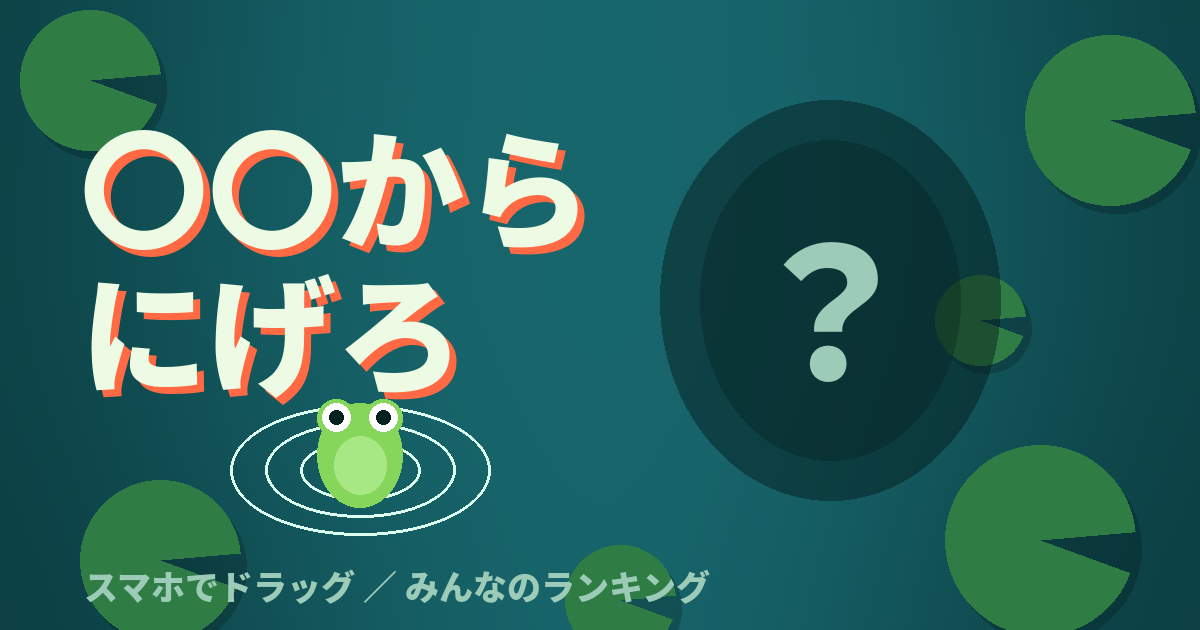
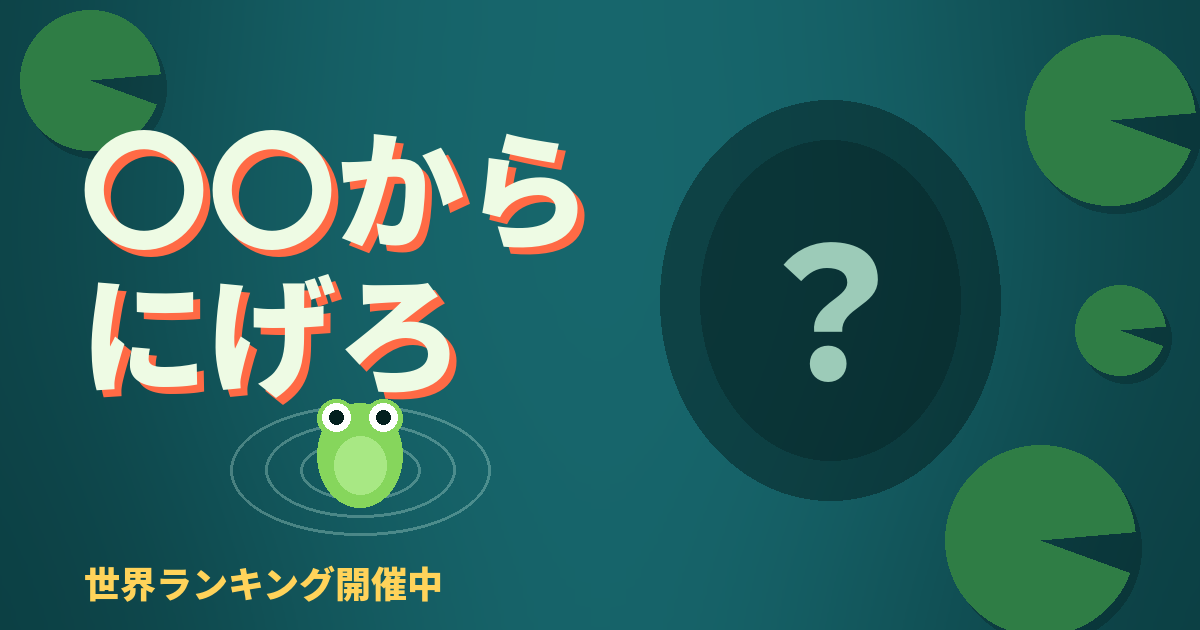
ランキングを「世界ランキング」に
大会の公式記録風の見出し、上位3人の称号、世界新記録の表示を追加。
シェア画像の文言も合わせた。

Claude-Session: https://claude.ai/code/session_01VmvYixVGhw6jZf85J7cwb9

diff --git a/public/index.html b/public/index.html
@@ -4,7 +4,7 @@
 <meta charset="utf-8">
 <meta name="viewport" content="width=device-width, initial-scale=1, viewport-fit=cover">
 <title>〇〇からにげろ</title>
-<meta name="description" content="池のカエルを指でドラッグして、追いかけてくる〇〇から逃げるスマホゲーム。ハエを食べてボーナス、ギリギリでかわして加点。名前を登録してみんなのランキングに挑戦しよう。">
+<meta name="description" content="池のカエルを指でドラッグして、追いかけてくる〇〇から逃げるスマホゲーム。ハエを食べてボーナス、ギリギリでかわして加点。名前を登録して世界ランキングに挑戦しよう。">
 <meta name="theme-color" content="#082f33">
 <link rel="icon" href="/favicon.png" type="image/png">
 <link rel="apple-touch-icon" href="/apple-touch-icon.png">
@@ -84,9 +84,17 @@ body{background:#03191b;touch-action:none;color:var(--paper);font-family:var(--b
 .link:focus-visible,.del:focus-visible{outline:2px solid var(--frog);outline-offset:2px}
 #over{gap:11px}
 #rank{gap:12px}
-.rhead{display:flex;justify-content:space-between;align-items:baseline;gap:8px}
-.rhead .title{font-size:clamp(30px,9cqw,40px)}
-.src{font-size:12px;color:var(--muted)}
+.rhead{display:grid;justify-items:center;gap:6px}
+.eyebrow{font-family:var(--display);font-size:12px;letter-spacing:.14em;color:#ffd35a;
+  padding:3px 10px;border-top:1px solid rgba(255,211,90,.45);border-bottom:1px solid rgba(255,211,90,.45)}
+.rhead .title{font-size:clamp(32px,10cqw,46px);text-shadow:3px 3px 0 var(--alert),0 0 24px rgba(255,211,90,.35)}
+.src{font-size:12px;color:var(--muted);letter-spacing:.04em}
+.rank .crown{font-size:10px;font-weight:800;color:var(--ink);border-radius:4px;padding:1px 5px;margin-left:6px;vertical-align:2px;background:#ffd35a}
+.rank li:nth-child(2) .crown{background:#dfe9e6}
+.rank li:nth-child(3) .crown{background:#e8a066}
+.rank li:nth-child(1){background:rgba(255,211,90,.12);box-shadow:inset 0 0 0 1px rgba(255,211,90,.45)}
+.rank li:nth-child(1) .nm,.rank li:nth-child(1) .sc{color:#ffe7a3}
+.note .wr{color:#ffd35a;font-family:var(--display);font-size:15px;letter-spacing:.06em}
 .rank{list-style:none;margin:0;padding:0 2px 0 0;display:grid;gap:4px;text-align:left;
   max-height:min(56vh,440px);overflow-y:auto;-webkit-overflow-scrolling:touch;font-variant-numeric:tabular-nums}
 .rank li{display:grid;grid-template-columns:2.1em minmax(0,1fr) auto auto;align-items:center;gap:10px;
@@ -125,7 +133,7 @@ body{background:#03191b;touch-action:none;color:var(--paper);font-family:var(--b
   <div class="stats" id="menuBest"></div>
   <div class="row">
     <button class="btn" id="startBtn" type="button">にげる</button>
-    <button class="btn ghost" id="menuRankBtn" type="button">ランキング</button>
+    <button class="btn ghost" id="menuRankBtn" type="button">世界ランキング</button>
   </div>
 </div>
 
@@ -135,13 +143,13 @@ body{background:#03191b;touch-action:none;color:var(--paper);font-family:var(--b
   <div class="big" id="overScore">0</div>
   <div class="stats" id="overStats"></div>
   <form class="form" id="nameForm" autocomplete="off">
-    <input class="input" id="nameInput" type="text" maxlength="24" placeholder="名前（12文字まで）" enterkeyhint="done" aria-label="ランキングに載せる名前">
+    <input class="input" id="nameInput" type="text" maxlength="24" placeholder="名前（12文字まで）" enterkeyhint="done" aria-label="世界ランキングに載せる名前">
     <button class="btn sm" id="submitBtn" type="submit">登録</button>
   </form>
   <p class="note" id="submitNote"></p>
   <div class="row">
     <button class="btn" id="retryBtn" type="button">もう一回</button>
-    <button class="btn ghost" id="overRankBtn" type="button">ランキング</button>
+    <button class="btn ghost" id="overRankBtn" type="button">世界ランキング</button>
   </div>
   <div class="links">
     <a class="link" id="shareX" href="https://x.com/" target="_blank" rel="noopener">Xでポスト</a>
@@ -151,7 +159,8 @@ body{background:#03191b;touch-action:none;color:var(--paper);font-family:var(--b
 
 <div class="panel" id="rank" hidden>
   <div class="rhead">
-    <h2 class="title">ランキング</h2>
+    <span class="eyebrow">第1回 〇〇逃走世界大会 公式記録</span>
+    <h2 class="title">世界ランキング</h2>
     <span class="src" id="rankSrc"></span>
   </div>
   <ol class="rank" id="rankList"></ol>
@@ -319,7 +328,10 @@ function refreshOverRank(){
   if(rankStatus==='loading'){note.textContent='ランキングを読み込み中…';return}
   const mine=online?rows().find(r=>r.me):null;
   if(mine&&mine.score>=lastRun.score){note.innerHTML=`あなたの登録ベストは <b>${mine.score}点</b>。登録すると名前だけ変わります。`;return}
-  note.innerHTML=`登録すると${online?'みんなの':'この端末の'}ランキングで <b>${placeFor(lastRun.score)}位</b>`;
+  const pl=placeFor(lastRun.score);
+  note.innerHTML=online
+    ?(pl===1?'登録すると <span class="wr">世界新記録</span>（世界1位）':`登録すると <b>世界${pl}位</b>`)
+    :`登録するとこの端末のランキングで <b>${pl}位</b>`;
 }
 $('nameForm').addEventListener('submit',async e=>{
   e.preventDefault();
@@ -339,8 +351,8 @@ $('nameForm').addEventListener('submit',async e=>{
         if(Array.isArray(r.body.scores))rankRows=r.body.scores;
         submitted=true;btn.textContent='済';
         note.innerHTML=r.body.improved
-          ?`登録した！ みんなのランキングで <b>${r.body.place}位</b>`
-          :`名前を「${esc(name)}」に更新。ベスト <b>${r.body.best}点</b> はそのまま（${r.body.place}位）`;
+          ?(r.body.place===1?'<span class="wr">世界新記録！</span> 全人類の頂点に立った（世界1位）':`登録した！ <b>世界${r.body.place}位</b> に名をきざんだ`)
+          :`名前を「${esc(name)}」に更新。ベスト <b>${r.body.best}点</b> はそのまま（世界${r.body.place}位）`;
       }else if(r.body.error==='bad_run'||r.body.error==='bad_score'){
         submitted=true;btn.textContent='×';note.textContent='この記録は登録できませんでした。もう一回遊んでから登録してね。';
       }else fail('登録できませんでした。もう一度ためしてね。');
@@ -355,23 +367,24 @@ $('nameForm').addEventListener('submit',async e=>{
 });
 function renderRank(){
   const list=$('rankList'),note=$('rankNote');list.textContent='';
-  $('rankSrc').textContent=online?'みんなの記録':'この端末の記録';
+  $('rankSrc').textContent=online?(rankRows.length>=50?'全人類の逃走記録 · 上位50人':`全人類の逃走記録 · エントリー ${rankRows.length}人`):'この端末の記録（世界につながっていません）';
   const rs=rows().slice(0,50);
   if(!rs.length){
     const li=document.createElement('li');li.className='empty';li.style.display='block';li.style.background='none';
-    li.textContent=rankStatus==='loading'?'読み込み中…':'まだ記録がありません。最初の1位になろう。';
+    li.textContent=rankStatus==='loading'?'世界の記録を取り寄せ中…':'まだ誰も挑戦していません。初代世界王者になろう。';
     list.appendChild(li);
   }
   rs.forEach((r,i)=>{
     const li=document.createElement('li');if(r.me)li.className='me';
     const no=document.createElement('span');no.className='no';no.textContent=i+1;
     const nm=document.createElement('span');nm.className='nm';nm.textContent=r.name;
+    if(i<3){const c=document.createElement('span');c.className='crown';c.textContent=['世界王者','準王者','銅メダル'][i];nm.appendChild(c)}
     if(r.me){const y=document.createElement('span');y.className='you';y.textContent='あなた';nm.appendChild(y)}
     const sc=document.createElement('span');sc.className='sc';sc.textContent=r.score;
     const tm=document.createElement('span');tm.className='tm';tm.textContent=r.time.toFixed(1)+'秒';
     li.append(no,nm,sc,tm);list.appendChild(li);
   });
-  if(rankStatus==='offline'){note.hidden=false;note.textContent='みんなのランキングにつながらないので、この端末だけに保存しています。'}
+  if(rankStatus==='offline'){note.hidden=false;note.textContent='世界ランキングにつながらないので、この端末だけに保存しています。'}
   else note.hidden=true;
 }
 function openRank(from){
